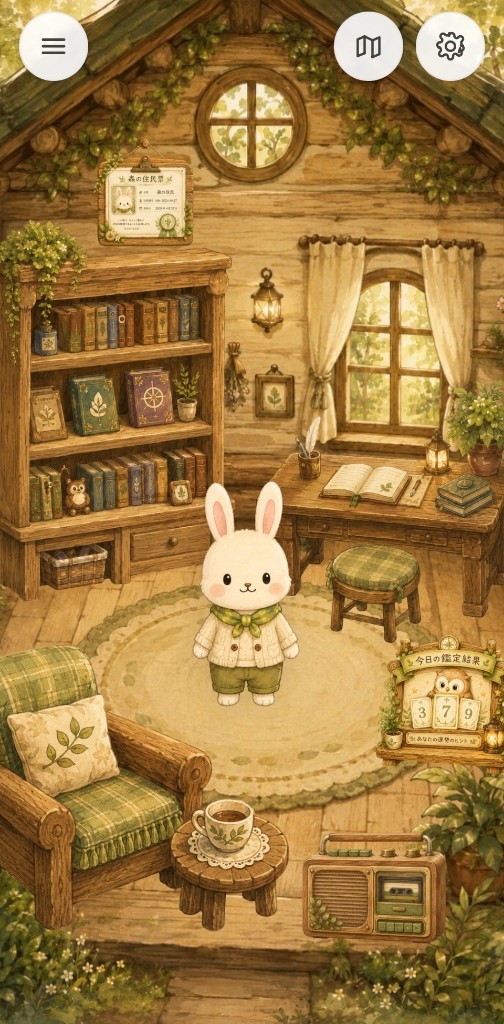
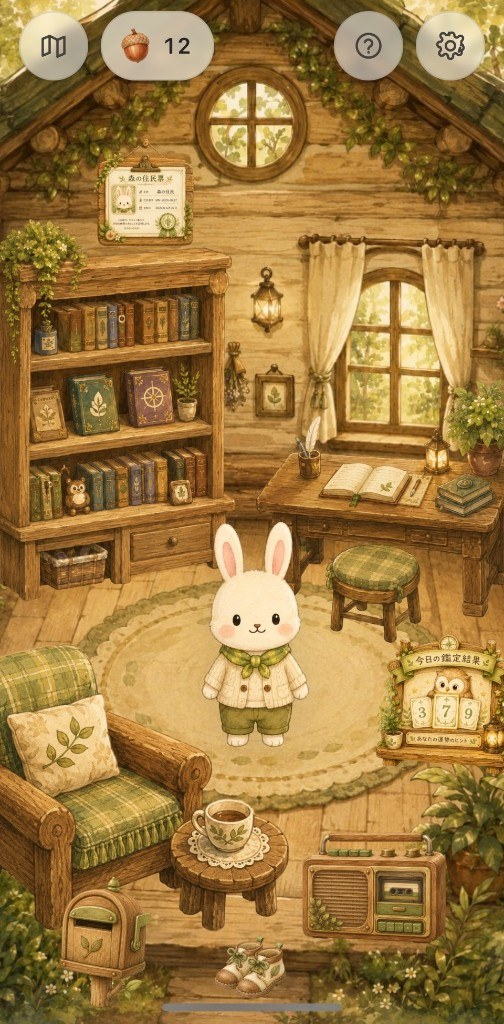
案内所のログハウス説明を最新スクショにし、ポストとどんぐりの案内を足す。
ログハウスの次に重要導線を置き、現在の室内UIに合うように目次と注釈を更新する。

diff --git a/src/components/help/LjdWalkthroughToc.tsx b/src/components/help/LjdWalkthroughToc.tsx
@@ -14,12 +14,25 @@ import {
   LJD_DIARY_WRITING_GUIDE_COMPANION_CROSSREF,
   LJD_DIARY_WRITING_GUIDE_SECTION_SUMMARY,
 } from "@/lib/help/ljdDiaryWritingGuideCopy";
+import {
+  LJD_DONGURI_GUIDE_BODY_PARAGRAPHS,
+  LJD_DONGURI_GUIDE_LINK_LABEL,
+  LJD_DONGURI_GUIDE_SECTION_SUMMARY,
+  LJD_DONGURI_GUIDE_SECTION_TITLE,
+} from "@/lib/help/ljdDonguriGuideCopy";
 import { LJD_LOG_HOUSE_GUIDE_SECTION_SUMMARY } from "@/lib/help/ljdLogHouseGuideAnnotate";
+import {
+  LJD_MAILBOX_GUIDE_BODY_PARAGRAPHS,
+  LJD_MAILBOX_GUIDE_LINK_LABEL,
+  LJD_MAILBOX_GUIDE_SECTION_SUMMARY,
+  LJD_MAILBOX_GUIDE_SECTION_TITLE,
+} from "@/lib/help/ljdMailboxGuideCopy";
 import {
   FOREST_GUIDE_STATION_NUMEROLOGY_READING_HREF,
   FOREST_GUIDE_STATION_NUMEROLOGY_READING_LINK_LABEL,
   FOREST_GUIDE_STATION_TITLE,
 } from "@/lib/help/forestGuideStation";
+import { LOG_HOUSE_MAILBOX_PAGE_PATH } from "@/lib/loghouse/logHouseMailboxCopy";
 import { FIRST_VISIT_ROUTES } from "@/lib/onboarding/firstVisitWizard/routes";
 import { LOG_HOUSE_SHORT_LABEL } from "@/lib/journal/logHouseLabels";
 
@@ -42,6 +55,44 @@ const TOC_ITEMS: TocItem[] = [
     title: LOG_HOUSE_SHORT_LABEL,
     summary: LJD_LOG_HOUSE_GUIDE_SECTION_SUMMARY,
     body: <LjdLogHouseGuideShot />,
+  },
+  {
+    id: "mailbox",
+    title: LJD_MAILBOX_GUIDE_SECTION_TITLE,
+    summary: LJD_MAILBOX_GUIDE_SECTION_SUMMARY,
+    body: (
+      <>
+        {LJD_MAILBOX_GUIDE_BODY_PARAGRAPHS.map((paragraph, index) => (
+          <p key={paragraph} className={index === 0 ? undefined : "mt-2"}>
+            {paragraph}
+          </p>
+        ))}
+        <GuideAppLink
+          href={LOG_HOUSE_MAILBOX_PAGE_PATH}
+          label={LJD_MAILBOX_GUIDE_LINK_LABEL}
+          feature="guide_loghouse"
+        />
+      </>
+    ),
+  },
+  {
+    id: "donguri",
+    title: LJD_DONGURI_GUIDE_SECTION_TITLE,
+    summary: LJD_DONGURI_GUIDE_SECTION_SUMMARY,
+    body: (
+      <>
+        {LJD_DONGURI_GUIDE_BODY_PARAGRAPHS.map((paragraph, index) => (
+          <p key={paragraph} className={index === 0 ? undefined : "mt-2"}>
+            {paragraph}
+          </p>
+        ))}
+        <GuideAppLink
+          href="/orders"
+          label={LJD_DONGURI_GUIDE_LINK_LABEL}
+          feature="guide_loghouse"
+        />
+      </>
+    ),
   },
   {
     id: "kantei",

diff --git a/src/lib/help/ljdLogHouseGuideAnnotate.ts b/src/lib/help/ljdLogHouseGuideAnnotate.ts
@@ -1,7 +1,7 @@
 /** 案内所 TOC「ログハウス」— スクショ注釈用 */
 
 export const LJD_LOG_HOUSE_GUIDE_SHOT_SRC =
-  "/images/ljd/guide-station/loghouse_guide_shot.jpg?v=1" as const;
+  "/images/ljd/guide-station/loghouse_guide_shot.jpg?v=2" as const;
 
 export const LJD_LOG_HOUSE_GUIDE_SHOT_INTRINSIC = {
   widthPx: 504,
@@ -61,16 +61,16 @@ export const LJD_LOG_HOUSE_GUIDE_MARKERS: LjdLogHouseGuideMarker[] = [
   {
     id: "todayResult",
     number: 4,
-    x: 82,
-    y: 63,
+    x: 80,
+    y: 68,
     title: "今日の鑑定結果",
     body: "タップすると、今日のヒントや鑑定結果を見ることができます。",
   },
   {
     id: "radio",
     number: 5,
-    x: 70,
-    y: 84,
+    x: 72,
+    y: 82,
     title: "ラジカセ（森の音）",
     body: "タップすると、森の小さな音楽堂が開き、音楽や自然音を聴けます。",
   },
@@ -78,7 +78,7 @@ export const LJD_LOG_HOUSE_GUIDE_MARKERS: LjdLogHouseGuideMarker[] = [
     id: "rabbit",
     number: 6,
     x: 49,
-    y: 48,
+    y: 50,
     title: "うさぎ（あなた自身）",
     body: "ログハウスにいるうさぎは、あなた自身の分身です。将来は、どんぐりで見た目を変えられるようにする予定です。",
   },

diff --git a/src/lib/help/ljdDonguriGuideCopy.ts b/src/lib/help/ljdDonguriGuideCopy.ts
@@ -1,0 +1,13 @@
+/** 案内所 TOC「どんぐりについて」（金融用語を避ける） */
+
+export const LJD_DONGURI_GUIDE_SECTION_TITLE = "どんぐりについて" as const;
+
+export const LJD_DONGURI_GUIDE_SECTION_SUMMARY =
+  "森のなかで、ちょっとお得に暮らすための小さなきろく" as const;
+
+export const LJD_DONGURI_GUIDE_BODY_PARAGRAPHS = [
+  "ログハウス左上のどんぐりは、いま持っている数です。タップするとどんぐり帳が開き、今日のおとどけや最近のきろくを見られます。",
+  "どんぐりは、森でのくらしを少し楽しくするためのものです。これから、お庭のお花をおすそわけしたり、ショップでログハウスや着せ替えを楽しんだりするときに使う予定です。",
+] as const;
+
+export const LJD_DONGURI_GUIDE_LINK_LABEL = "ログハウスでどんぐりを見る" as const;

diff --git a/src/lib/help/ljdMailboxGuideCopy.ts b/src/lib/help/ljdMailboxGuideCopy.ts
@@ -1,0 +1,14 @@
+/** 案内所 TOC「ヤギの郵便屋さんからのお届けもの」 */
+
+export const LJD_MAILBOX_GUIDE_SECTION_TITLE =
+  "ヤギの郵便屋さんからのお届けもの" as const;
+
+export const LJD_MAILBOX_GUIDE_SECTION_SUMMARY =
+  "玄関のポストに届く、森からのお知らせ" as const;
+
+export const LJD_MAILBOX_GUIDE_BODY_PARAGRAPHS = [
+  "ログハウスの玄関には、ヤギの郵便屋さんが手紙を届けてくれます。ポストをタップすると、届いたお知らせを確認できます。",
+  "たとえば無料鑑定が終わると、鑑定書が本棚にしまわれたことをポストが教えてくれます。未読があると、お手紙ありのポストに変わります。",
+] as const;
+
+export const LJD_MAILBOX_GUIDE_LINK_LABEL = "ポストを開く" as const;

diff --git a/src/components/help/LjdLogHouseGuideShot.tsx b/src/components/help/LjdLogHouseGuideShot.tsx
@@ -20,7 +20,7 @@ export function LjdLogHouseGuideShot() {
       >
         <Image
           src={LJD_LOG_HOUSE_GUIDE_SHOT_SRC}
-          alt="ログハウスの室内。住民票・本棚・机・今日の鑑定結果・ラジカセに番号が付いています。"
+          alt="ログハウスの室内。住民票・本棚・机・今日の鑑定結果・ラジカセ・うさぎに番号が付いています。玄関のポストや左上のどんぐりも見えます。"
           fill
           sizes="(max-width: 640px) 72vw, 20rem"
           className="object-cover object-top"
